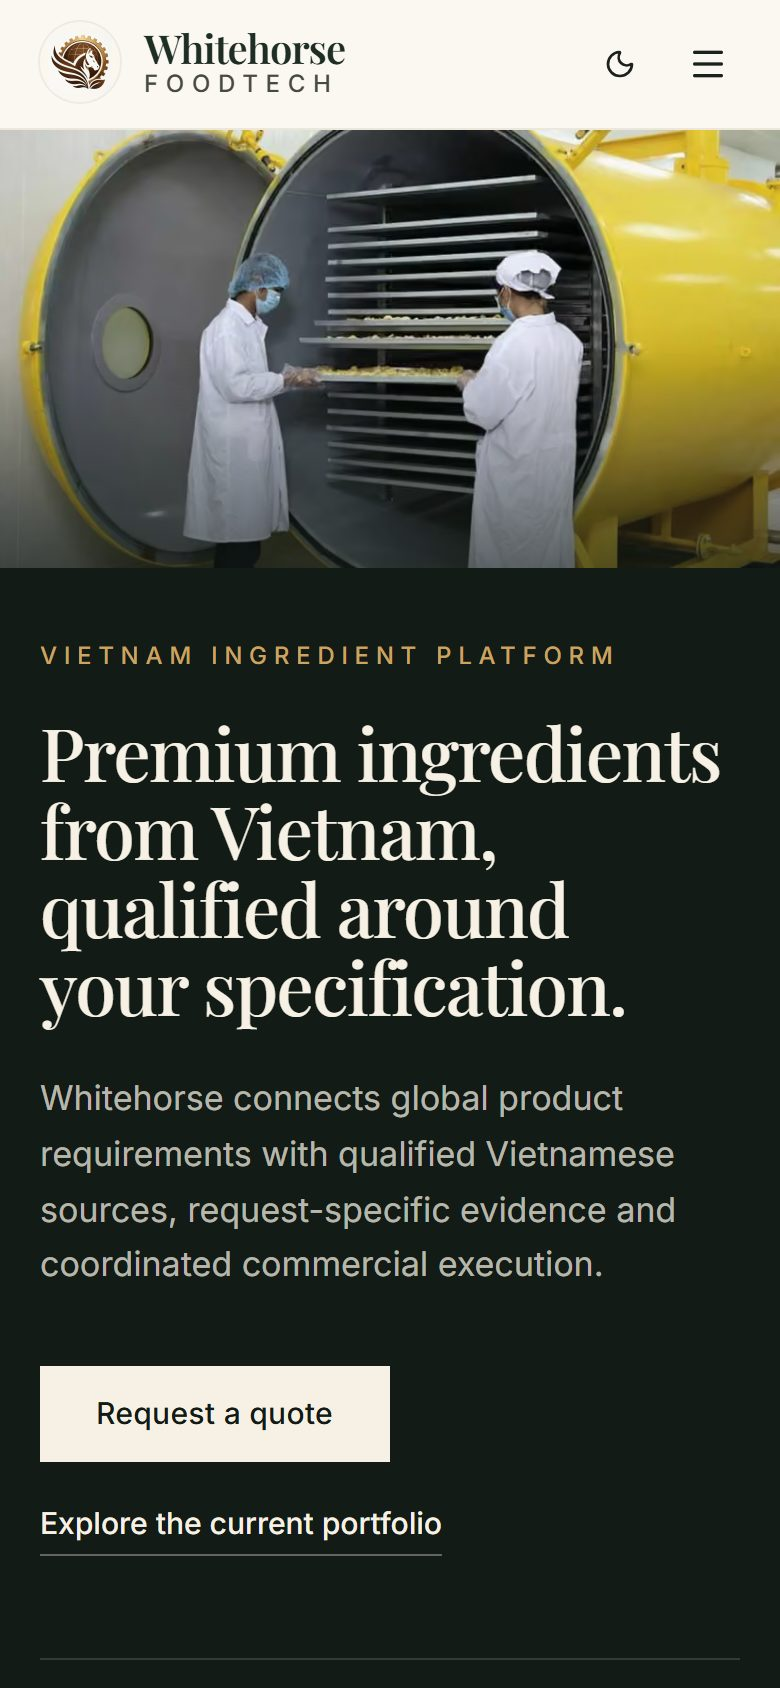
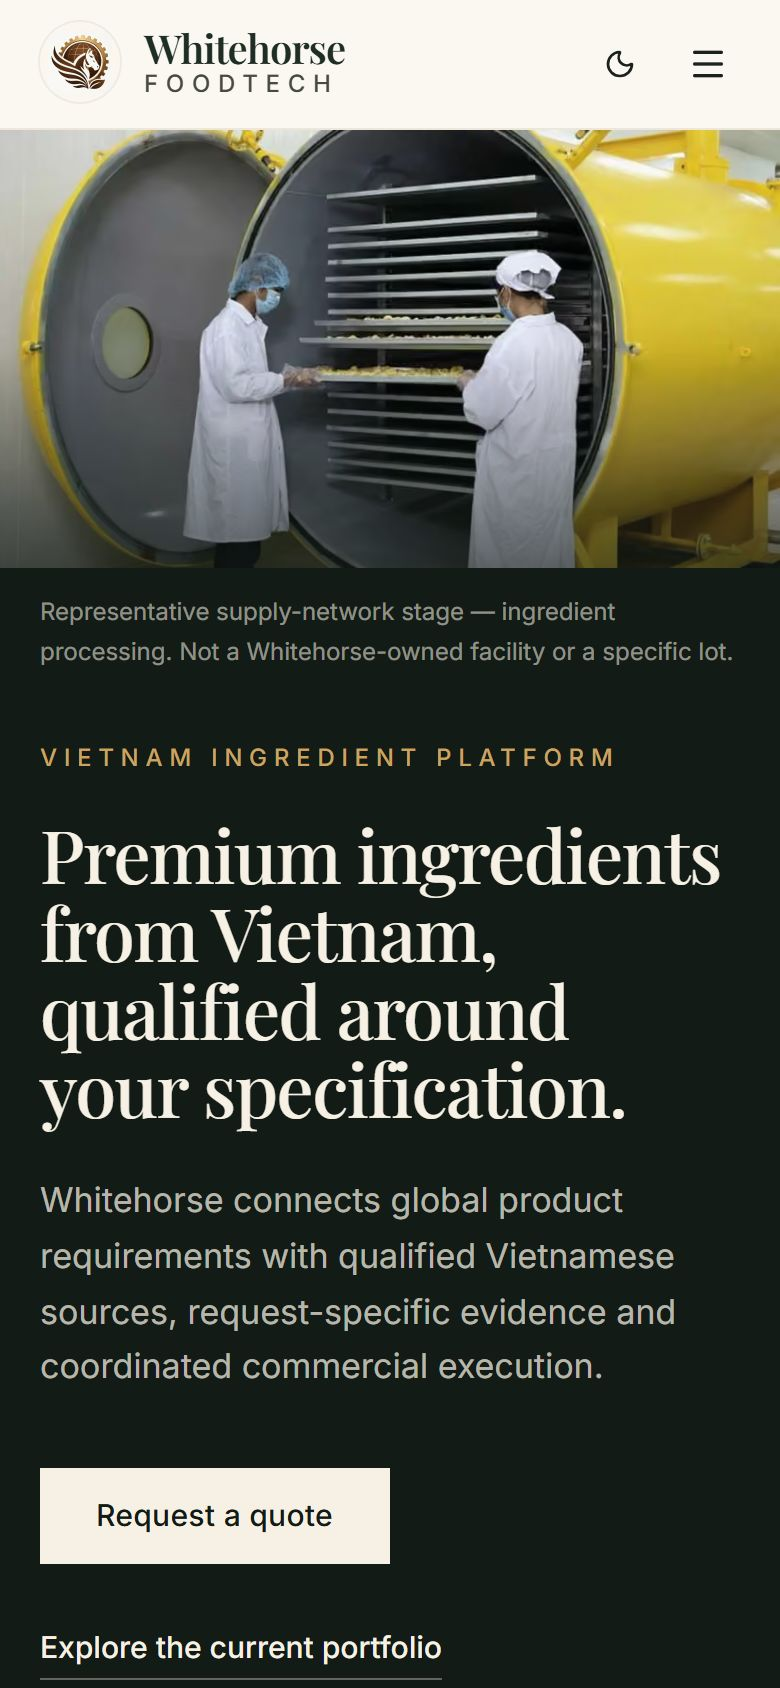
Remove coffee visual from homepage hero; evidence goes image-free
- Hero inset is now the owner-supplied export air-freight image instead of
  the coffee-harvest crop, framed by a 1px hairline rule (was a 6px frame).
- Caption sits directly under the visible image: mobile names only the
  processing stage it shows, desktop names processing and export air
  freight. Non-ownership disclosure kept in both, EN and VI.
- Secondary hero CTA is at least 44px tall.
- Evidence section drops its image (no repeat of the hero photo) and
  becomes a typographic statement plus ruled scope rows.
- Provenance, claim registry, design system, tests and after screenshots
  updated to match.

Changed region(s): [[0.0308, 0.4313, 0.9231, 0.9242], [0.0615, 0.3389, 0.9231, 0.4005], [0.0308, 0.955, 0.5846, 0.9858]]

diff --git a/src/components/home/hero.tsx b/src/components/home/hero.tsx
@@ -6,13 +6,14 @@ import { hasPublicFile } from "@/lib/media";
 
 // One dominant owner-supplied supply-network image and one restrained inset
 // (docs/asset-provenance.md, "Homepage hero composition"): processing leads,
-// Vietnamese origin supports. Neither is a product family. The
-// representative-stage disclosure is a proper caption beneath the image,
-// outside the focal area. about.jpg and factory.jpg stay unrendered: that
-// artwork carries unsupported claims (claim registry row 15).
+// export air freight supports. Neither is a product family, and no
+// coffee-family visual is used here. The representative-stage disclosure is a
+// proper caption directly beneath the visible image, outside the focal area.
+// about.jpg and factory.jpg stay unrendered: that artwork carries unsupported
+// claims (claim registry row 15).
 const HERO_IMAGES = [
   "/images/platform/quality-processing.webp",
-  "/images/platform/network-coffee-harvest.webp",
+  "/images/platform/network-air-freight.webp",
 ] as const;
 
 /**
@@ -47,18 +48,21 @@ export function Hero() {
             />
           </div>
 
-          <div className="absolute bottom-16 -left-10 hidden aspect-[4/5] w-36 border-[6px] border-deep lg:block xl:w-44">
+          <div className="absolute bottom-16 -left-10 hidden aspect-[4/3] w-52 border border-deep-foreground/20 lg:block xl:w-60">
             <Image
               src={HERO_IMAGES[1]}
               alt={images[1].alt}
               fill
-              sizes="11rem"
-              className="object-cover object-[58%_50%] saturate-[0.82]"
+              sizes="15rem"
+              className="object-cover object-[62%_50%] saturate-[0.82]"
             />
           </div>
 
-          <figcaption className="hidden text-xs leading-relaxed text-deep-foreground/55 lg:absolute lg:right-0 lg:bottom-8 lg:left-40 lg:block lg:pr-8 xl:left-48 xl:pr-12">
-            {t("imageCaption")}
+          {/* Mobile shows only the main image, so its caption names only that
+              stage; desktop adds the inset and names both. */}
+          <figcaption className="px-5 pt-3 text-xs leading-relaxed text-deep-foreground/55 sm:px-6 lg:absolute lg:right-0 lg:bottom-8 lg:left-48 lg:px-0 lg:pt-0 lg:pr-8 xl:left-56 xl:pr-12">
+            <span className="lg:hidden">{t("imageCaptionMobile")}</span>
+            <span className="hidden lg:inline">{t("imageCaption")}</span>
           </figcaption>
         </figure>
       )}
@@ -81,7 +85,7 @@ export function Hero() {
             </Link>
             <Link
               href="/products"
-              className="cursor-pointer text-[0.9375rem] font-medium underline decoration-deep-foreground/35 underline-offset-[10px] transition-colors hover:decoration-accent focus-visible:ring-3 focus-visible:ring-ring/60 focus-visible:outline-none"
+              className="inline-flex min-h-11 cursor-pointer items-center text-[0.9375rem] font-medium underline decoration-deep-foreground/35 underline-offset-[10px] transition-colors hover:decoration-accent focus-visible:ring-3 focus-visible:ring-ring/60 focus-visible:outline-none"
             >
               {t("ctaSecondary")}
             </Link>
@@ -111,10 +115,6 @@ export function Hero() {
               </dd>
             </div>
           </dl>
-
-          {showImages && (
-            <p className="mt-8 text-xs leading-relaxed text-deep-foreground/50 lg:hidden">{t("imageCaption")}</p>
-          )}
         </div>
       </div>
     </section>

diff --git a/src/components/home/evidence-layer.tsx b/src/components/home/evidence-layer.tsx
@@ -1,32 +1,28 @@
-import Image from "next/image";
 import { useTranslations } from "next-intl";
 import { Link } from "@/i18n/navigation";
-import { hasPublicFile } from "@/lib/media";
-
-// Owner-supplied supply-network image (docs/asset-provenance.md, "Platform
-// and supply-network imagery"), always with its representative caption.
-const EVIDENCE_IMAGE = "/images/platform/network-air-freight.webp";
 
 /**
  * Evidence is scoped to a request; this section never implies universal
- * certificates or live lot data. One composition (statement + captioned
- * image) followed by ruled evidence rows, not a grid of cards.
+ * certificates or live lot data. Image-free by design: a typographic
+ * statement followed by ruled evidence rows, not a grid of cards. (The
+ * air-freight image lives in the hero; it is not repeated here.)
  */
 export function EvidenceLayer() {
   const t = useTranslations("home.evidence");
   const items = t.raw("items") as { label: string; title: string; body: string }[];
-  const showImage = hasPublicFile(EVIDENCE_IMAGE);
 
   return (
     <section aria-labelledby="evidence-title" className="bg-muted">
       <div className="mx-auto max-w-7xl px-5 py-20 sm:px-6 md:py-32 lg:px-8 lg:py-40">
-        <div className="grid gap-12 lg:grid-cols-12 lg:items-end lg:gap-8">
-          <div className="lg:col-span-5">
+        <div className="grid gap-8 lg:grid-cols-12 lg:items-end lg:gap-8">
+          <div className="lg:col-span-6">
             <p className="text-xs font-medium tracking-[0.24em] text-accent uppercase">{t("eyebrow")}</p>
             <h2 id="evidence-title" className="mt-5 font-serif text-[2.1rem] leading-[1.1] font-medium tracking-[-0.01em] text-balance text-foreground md:text-5xl">
               {t("title")}
             </h2>
-            <p className="mt-6 max-w-md text-base leading-relaxed text-pretty text-muted-foreground md:text-[1.0625rem]">{t("subtitle")}</p>
+          </div>
+          <div className="lg:col-span-5 lg:col-start-8">
+            <p className="max-w-md text-base leading-relaxed text-pretty text-muted-foreground md:text-[1.0625rem]">{t("subtitle")}</p>
             <Link
               href="/certifications"
               className="mt-8 inline-block text-[0.9375rem] font-medium text-foreground underline decoration-accent/50 underline-offset-8 transition-colors hover:decoration-accent"
@@ -34,21 +30,6 @@ export function EvidenceLayer() {
               {t("cta")}
             </Link>
           </div>
-
-          {showImage && (
-            <figure className="lg:col-span-6 lg:col-start-7">
-              <div className="relative aspect-[3/2] overflow-hidden">
-                <Image
-                  src={EVIDENCE_IMAGE}
-                  alt={t("image.alt")}
-                  fill
-                  sizes="(min-width: 1280px) 36rem, (min-width: 1024px) 48vw, 100vw"
-                  className="object-cover object-[65%_50%] saturate-[0.85]"
-                />
-              </div>
-              <figcaption className="mt-3 text-xs leading-relaxed text-muted-foreground">{t("image.caption")}</figcaption>
-            </figure>
-          )}
         </div>
 
         <ol className="mt-20 border-b border-foreground/15 md:mt-28">

diff --git a/tests/platform-experience.test.ts b/tests/platform-experience.test.ts
@@ -80,13 +80,24 @@ test("homepage tells the platform story in order, with the operating standard be
   assert.deepEqual([...positions].sort((a, b) => a - b), positions, "homepage section order");
 });
 
-test("hero is platform-level: one dominant network image, one inset, captioned, and a current capability", () => {
+test("hero is platform-level: one dominant network image, one inset, captioned, and a current capability", async () => {
   const hero = fs.readFileSync("src/components/home/hero.tsx", "utf8");
   assert.doesNotMatch(hero, /images\/catalog\//, "no single product family leads the hero");
-  for (const src of ["quality-processing.webp", "network-coffee-harvest.webp"]) {
+  for (const src of ["quality-processing.webp", "network-air-freight.webp"]) {
     assert.ok(hero.includes(src), `hero uses ${src}`);
   }
+  assert.doesNotMatch(hero, /coffee-harvest|images\/[^"]*coffee/i, "no coffee-family visual in the hero");
   assert.doesNotMatch(hero, /process-partner-facility/, "no third-party-branded facility image");
+  assert.doesNotMatch(hero, /border-\[\d+px\]/, "inset uses a 1px rule, not a thick frame");
+  assert.match(hero, /href="\/products"\s+className="[^"]*min-h-11/, "secondary CTA is at least 44px tall");
+  assert.match(hero, /t\("imageCaptionMobile"\)[\s\S]*<\/figcaption>\s*<\/figure>/, "mobile caption sits in the figure under the image");
+  const en = (await import("../messages/en.json", { with: { type: "json" } })).default;
+  const vi = (await import("../messages/vi.json", { with: { type: "json" } })).default;
+  for (const catalog of [en, vi]) {
+    assert.doesNotMatch(JSON.stringify(catalog.home.hero.images), /coffee|cà phê/i, "hero alt text names no coffee visual");
+    assert.match(catalog.home.hero.imageCaption, /Whitehorse/, "non-ownership disclosure stays visible");
+    assert.match(catalog.home.hero.imageCaptionMobile, /Whitehorse/, "mobile disclosure stays visible");
+  }
   assert.equal((hero.match(/<Image\b/g) ?? []).length, 2, "one dominant image and at most one inset");
   assert.doesNotMatch(hero, /\.label\}/, "no category badges over the crops");
   assert.match(hero, /t\("imageCaption"\)/);
@@ -140,6 +151,11 @@ test("audience gateway is a platform entry with a current-proof line", () => {
   assert.match(gateway, /Nhà cung cấp Việt Nam/);
   assert.match(gateway, /29 defined core SKUs · 50\+ screened suppliers · 10\+ market relationships/);
   assert.match(gateway, /Zalo/);
+});
+
+test("evidence section is image-free and does not repeat the hero image", () => {
+  const evidence = fs.readFileSync("src/components/home/evidence-layer.tsx", "utf8");
+  assert.doesNotMatch(evidence, /<Image\b|\.webp|\.jpg/);
 });
 
 test("homepage refinement: quiet actions, readable labels and no card grids", () => {

diff --git a/docs/asset-provenance.md b/docs/asset-provenance.md
@@ -171,8 +171,8 @@ pictured people, or handled the pictured shipment.
[7 lines of base64/hex data omitted]
 
 **Licence status:** owner-supplied; photographer/source and commercial-use
 rights still need to be recorded before Production replacement or reuse
@@ -191,8 +191,8 @@ and provenance-recorded assets:
 | Candidate | Decision | Reason |
 |---|---|---|
 | `platform/quality-processing.webp` | **Used — dominant image (LCP)** | Real processing stage (freeze-drying trays, hygiene clothing); no logos or text; not tied to one family |
-| `platform/network-coffee-harvest.webp` | **Used — single restrained inset** | Only Vietnamese origin/harvest image on file. It shows coffee cherries, so it stays a small inset (desktop only), never the lead |
-| `platform/network-air-freight.webp` | Moved out of the hero (luxury refinement, 2026-09-30) | Now the homepage evidence-section image, with its own representative caption (`home.evidence.image.caption`) |
+| `platform/network-air-freight.webp` | **Used — single restrained inset (desktop only)** | Real export stage (palletised air cargo at a freighter); no legible third-party branding; not tied to one family |
+| `platform/network-coffee-harvest.webp` | Not used on the homepage (removed 2026-09-30) | Shows coffee cherries — a coffee-family visual. The homepage hero must not feel coffee-led, even as an inset. Kept on Network |
 | `platform/process-partner-facility.webp` | Not used on the homepage | Visible third-party equipment brand ("BUHLER") and coffee-sack print ("KHO 03", green coffee) — third-party branding and coffee-led |
 | `platform/process-container-loading.webp` | Not used on the homepage | Kept on How We Work |
 | Catalog / studio / concept-pack images | Not used in hero | Product imagery belongs below the platform proposition (current portfolio section) |
@@ -200,20 +200,28 @@ and provenance-recorded assets:
 
 **Luxury refinement (2026-09-30):** the three-tile collage and its
 per-tile stage badges were retired. The hero is now one dominant image on
-the black-olive surface with one inset. The disclosure is unchanged in
-substance and still visible, but set as a proper caption beneath the image
-(desktop) or at the end of the hero (mobile), outside the headline focal
-area: "Representative stages in Vietnam's ingredient supply network —
-processing and origin harvest. Not Whitehorse-owned facilities or a
-specific shipment." (VI equivalent in `home.hero.imageCaption`). Images get
-a light CSS desaturation (`saturate-[0.82–0.85]`) and a surface gradient
-only; the files themselves are unchanged. No image was added, generated or
-retouched.
+the black-olive surface with one inset (framed by a 1px hairline rule).
+The disclosure is unchanged in substance and still visible, set as a
+proper caption directly beneath the visible image, outside the headline
+focal area, and naming only what is visible at that breakpoint:
 
-The evidence section uses `platform/network-air-freight.webp` with the
-caption "Representative export stage — palletised air cargo. Not a
-Whitehorse-owned facility or a specific shipment." It illustrates the
-export context, not the evidence itself or a Whitehorse shipment.
+- Desktop (processing image + air-freight inset): "Representative
+  supply-network stages — ingredient processing and export air freight.
+  Not Whitehorse-owned facilities or a specific shipment."
+  (`home.hero.imageCaption`)
+- Mobile (processing image only; the inset is hidden): "Representative
+  supply-network stage — ingredient processing. Not a Whitehorse-owned
+  facility or a specific lot." (`home.hero.imageCaptionMobile`)
+
+VI equivalents use the same keys. The caption makes no location claim for
+the air-freight scene. Images get a light CSS desaturation
+(`saturate-[0.82–0.85]`) and a surface gradient only; the files themselves
+are unchanged. No image was added, generated or retouched.
+
+**Follow-up (2026-09-30):** the coffee-harvest inset was replaced by the
+air-freight image so the hero carries no coffee-family visual. To avoid
+showing the same photograph twice, the homepage evidence section is now
+image-free (typographic statement + ruled scope rows).
 
 **Asset gap:** no single truthful master image shows Vietnamese origin +
 qualification/evidence + global connection across several ingredients. A

diff --git a/docs/claim-registry.md b/docs/claim-registry.md
@@ -51,7 +51,7 @@ unless noted.
 | 12 | Packaging options (coffee): jute bags with inner liner, valve bags, jars, drums, bag-in-box, drip bags, sachets, retail boxes | Options to discuss | Sales | Brief input | "Packaging options to discuss … confirmed per order" | "Available", third-party brand names (e.g. liner brands) | 2026-12-31 |
 | 13 | Process commitments: specification agreed in writing, samples/COA arranged per order, documents coordinated with logistics/documentation partners, suppliers' qualification status disclosed | FACT (process commitment) | CEO / sales lead | Sales SOP (**gap:** confirm written) | Home value section ("coordinate requirements, supplier evidence, testing scope and lot documentation"), How We Work, catalog "How a request works" | Universal testing, owned labs | 2026-12-31 |
 | 14 | Follow-up promise | FACT (process) | Sales lead | `RFQ_MAIL_TO` owner | "Our sales team reviews qualified requests and follows up with the next commercial step." | Response-time SLA | When an SLA is agreed |
-| 15 | Images | Illustrative / editorial / studio representation | CEO | `docs/asset-provenance.md`. **Production rights confirmation pending** for catalog coffee images, `hero.jpg`, owner product/studio compositions and the process/logistics/farm-stage images added 2026-09-28; generator/photographer and licence terms to be recorded | Every family presents two distinct visual states. Editorial and studio images are shown without visual-type badges for a cleaner catalog; concept packaging remains visibly labelled and carries its per-order note. Quality, How We Work, Network and (since 2026-09-30) the homepage hero and homepage evidence image keep the visible representative-stage caption | Presenting imagery as the exact product, inventory, supplier batch, Whitehorse-owned facility, contracted grower, handled shipment, certification/traceability evidence or availability; implying every one of the 29 codes already has two unique approved packshots | Before Production promotion |
+| 15 | Images | Illustrative / editorial / studio representation | CEO | `docs/asset-provenance.md`. **Production rights confirmation pending** for catalog coffee images, `hero.jpg`, owner product/studio compositions and the process/logistics/farm-stage images added 2026-09-28; generator/photographer and licence terms to be recorded | Every family presents two distinct visual states. Editorial and studio images are shown without visual-type badges for a cleaner catalog; concept packaging remains visibly labelled and carries its per-order note. Quality, How We Work, Network and (since 2026-09-30) the homepage hero (processing + export air-freight inset; no coffee-family visual; the evidence section is image-free) keep the visible representative-stage caption | Presenting imagery as the exact product, inventory, supplier batch, Whitehorse-owned facility, contracted grower, handled shipment, certification/traceability evidence or availability; implying every one of the 29 codes already has two unique approved packshots | Before Production promotion |
 | 16 | Privacy Notice and Website Terms | FACT (concise notices) — **legal review pending** | CEO (legal) | Not yet reviewed by counsel | Neutral pages, "Last updated: 27 September 2026"; `noindex`, out of sitemap | "Legally reviewed", "GDPR-compliant" | Before indexing |
 | 17 | Balance Life circular-agriculture initiative | PROGRAM SIGNAL | CEO | CEO confirmation. **Gap:** Balance Life's written consent to be named | About → Ecosystem development (no logos, no other participant named) | Partnership, investment, joint venture | 2026-10-31 |
 | 18 | Direct QA/QC capability at key sourcing points; platform designed to connect cooperatives, farmers, factories, laboratories, logistics providers and professional buyers | VISION | CEO | — | About → "Long-term direction" with "Vision — not a current service" | Current in-house QA/QC; current platform connecting labs/logistics; 3,000+ / 10,000+ figures on About outside the tagged status section; internal system names (WBIS/WBOS) | Annually |

diff --git a/design-system/whitehorse-foodtech/MASTER.md b/design-system/whitehorse-foodtech/MASTER.md
@@ -50,9 +50,12 @@ deliberate asymmetry. Not a coffee shop, not a SaaS dashboard.
   `#131B16`, ivory `--deep-foreground` `#F6F1E4`, stays dark in both
   themes) → ivory → forest (`bg-primary`) → ivory → sand (`bg-muted`) →
   black-olive → ivory → forest footer.
-- One dominant photograph per composition, at most one inset; no badges
-  over crops. Representative-image disclosures are real captions, set
-  beneath the image.
+- One dominant photograph per composition, at most one inset, framed by a
+  1px hairline rule (no thick frames); no badges over crops.
+  Representative-image disclosures are real captions, set directly beneath
+  the visible image and describing only what is visible at that breakpoint.
+  An image appears once per page. The homepage hero carries no
+  coffee-family visual.
 - Sequences are ruled and numbered (serif bronze numerals, hairline
   `border-foreground/15` rules); evidence is ruled rows; technology is one
   backbone rule with status markers (filled = operating now, ring = being
